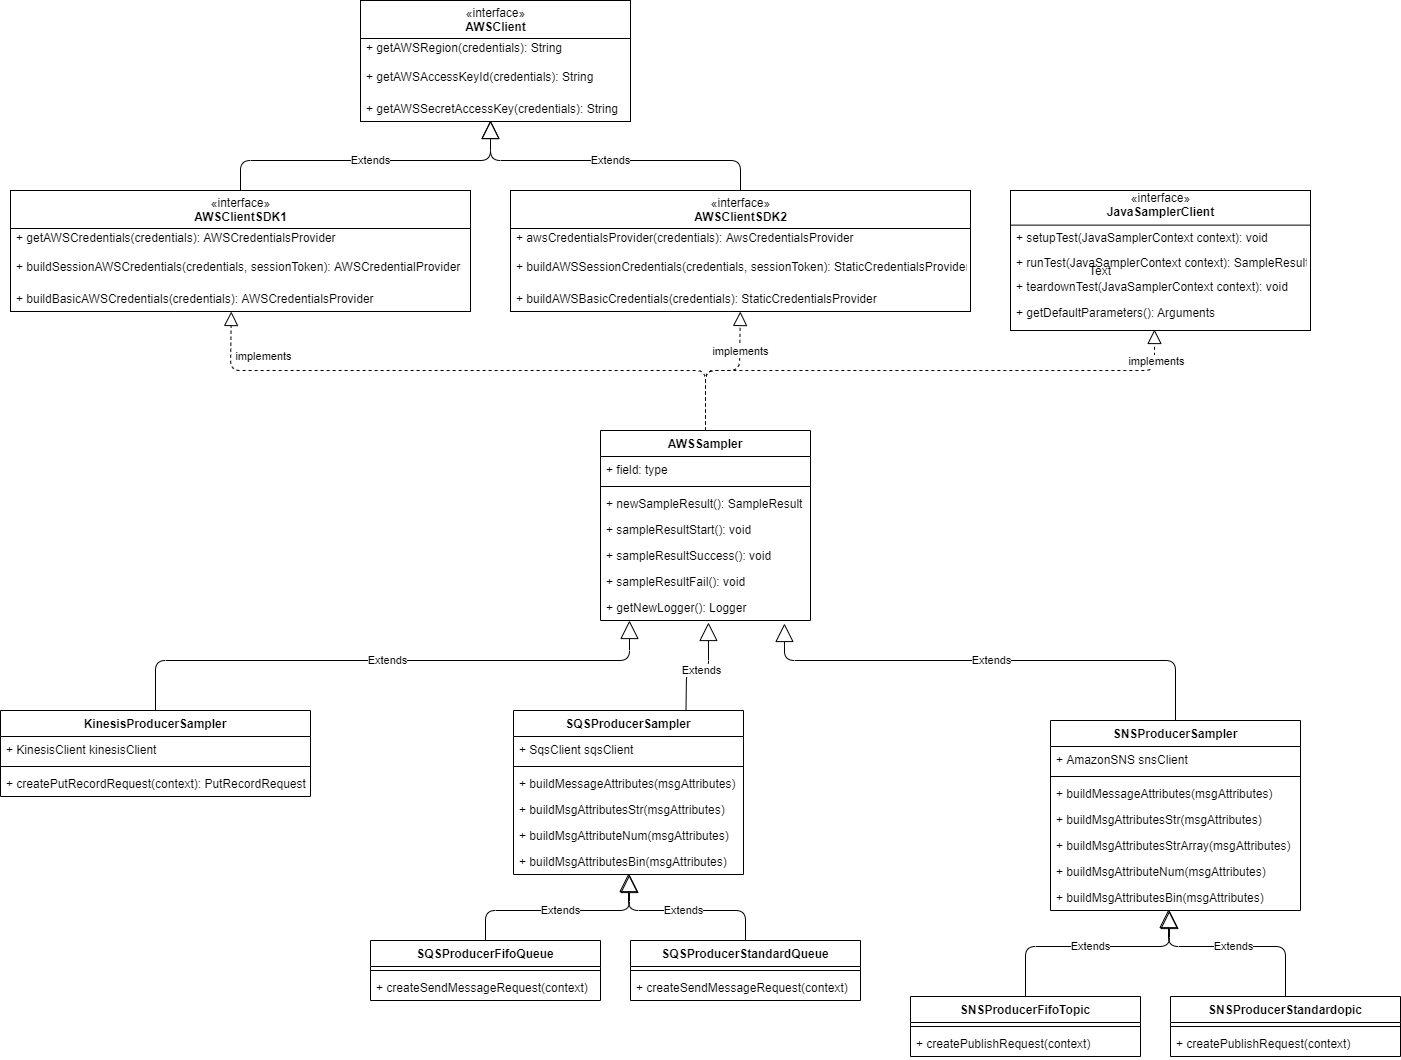
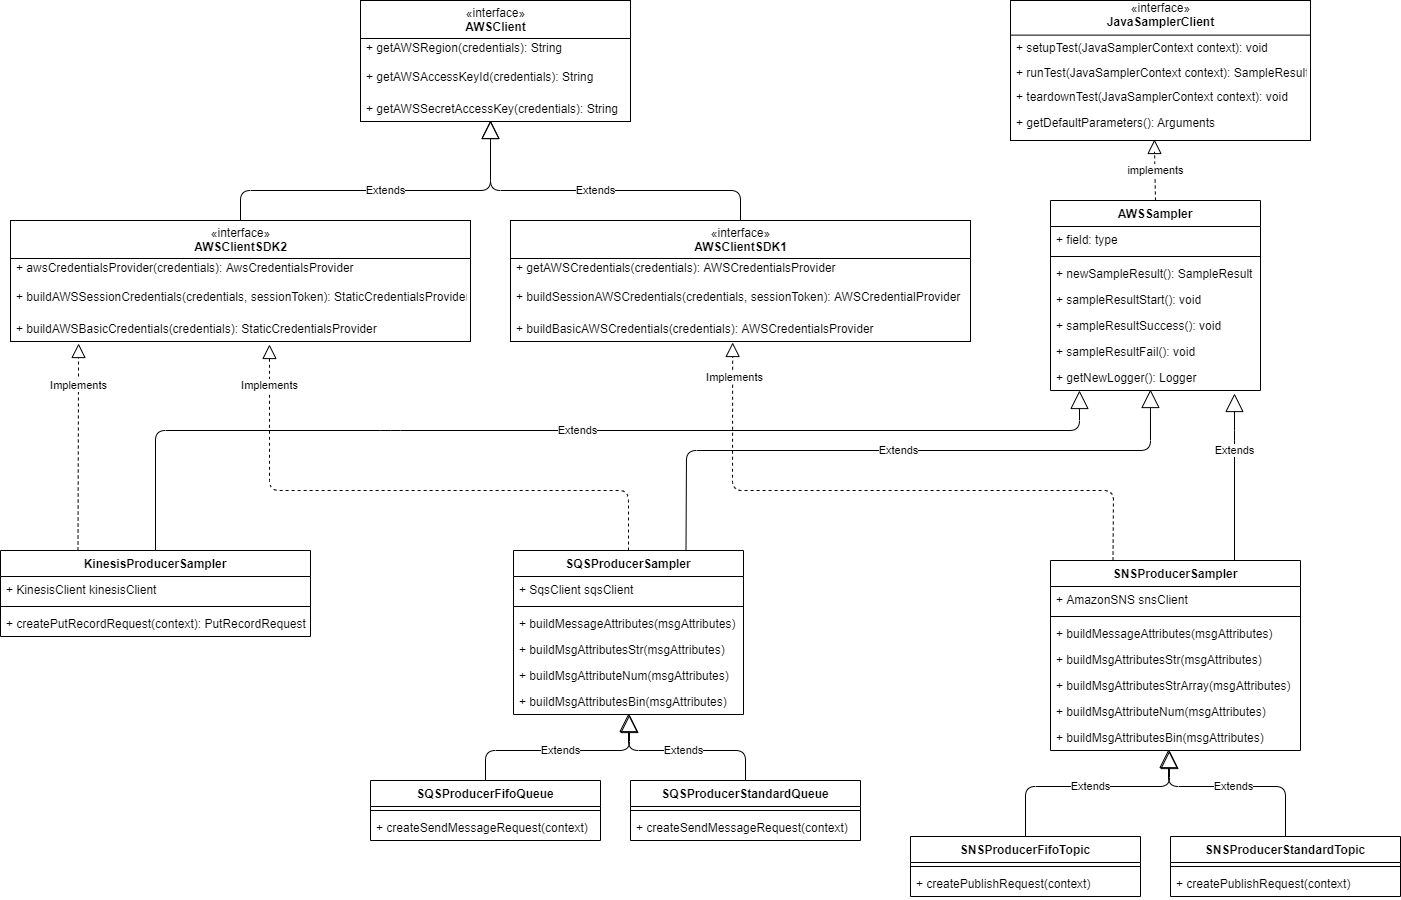
Each AWS Java Request use AWSClientSDK version need.

diff --git a/src/main/java/org/apache/jmeter/protocol/aws/AWSSampler.java b/src/main/java/org/apache/jmeter/protocol/aws/AWSSampler.java
@@ -1,6 +1,5 @@
 package org.apache.jmeter.protocol.aws;
 
-import com.amazonaws.client.builder.AwsSyncClientBuilder;
 import com.fasterxml.jackson.core.JsonProcessingException;
 import com.fasterxml.jackson.core.type.TypeReference;
 import com.fasterxml.jackson.databind.ObjectMapper;
@@ -9,10 +8,8 @@ import org.apache.jmeter.protocol.java.sampler.JavaSamplerClient;
 import org.apache.jmeter.samplers.SampleResult;
 import org.slf4j.Logger;
 import org.slf4j.LoggerFactory;
-import software.amazon.awssdk.core.SdkClient;
 
 import java.util.List;
-import java.util.Map;
 import java.util.Optional;
 import java.util.function.Predicate;
 import java.util.stream.Collectors;
@@ -24,7 +21,7 @@ import java.util.stream.Stream;
  * @since 01/27/2021
  * @see "https://github.com/JoseLuisSR/awsmeter"
  */
-public abstract class AWSSampler implements JavaSamplerClient, AWSClientSDK2, AWSClientSDK1 {
+public abstract class AWSSampler implements JavaSamplerClient{
 
     /**
      * Log attribute.
@@ -116,16 +113,6 @@ public abstract class AWSSampler implements JavaSamplerClient, AWSClientSDK2, AW
             new Argument(AWS_REGION, EMPTY),
             new Argument(AWS_CONFIG_PROFILE, AWS_DEFAULT_PROFILE))
             .collect(Collectors.toList());
-
-    @Override
-    public SdkClient createSdkClient(Map<String, String> credentials) {
-        return null;
-    }
-
-    @Override
-    public AwsSyncClientBuilder createAWSClient(Map<String, String> credentials) {
-        return null;
-    }
 
     /**
      * Create new SampleResult.

diff --git a/src/main/java/org/apache/jmeter/protocol/aws/sns/SNSProducerSampler.java b/src/main/java/org/apache/jmeter/protocol/aws/sns/SNSProducerSampler.java
@@ -7,6 +7,7 @@ import com.amazonaws.services.sns.AmazonSNSClient;
 import com.amazonaws.services.sns.model.MessageAttributeValue;
 import com.amazonaws.services.sns.model.PublishRequest;
 import com.fasterxml.jackson.core.JsonProcessingException;
+import org.apache.jmeter.protocol.aws.AWSClientSDK1;
 import org.apache.jmeter.protocol.aws.AWSSampler;
 import org.apache.jmeter.protocol.aws.MessageAttribute;
 import org.apache.jmeter.protocol.java.sampler.JavaSamplerContext;
@@ -27,7 +28,7 @@ import java.util.stream.Stream;
  * @since 01/27/2021
  * @see "https://github.com/JoseLuisSR/awsmeter"
  */
-public abstract class SNSProducerSampler extends AWSSampler {
+public abstract class SNSProducerSampler extends AWSSampler implements AWSClientSDK1 {
 
     /**
      * SNS Topic ARN (Amazon Resource Name).
@@ -68,7 +69,7 @@ public abstract class SNSProducerSampler extends AWSSampler {
     @Override
     public AwsSyncClientBuilder createAWSClient(Map<String, String> credentials) {
         return AmazonSNSClient.builder()
-                .withCredentials(getAWSCredentials(credentials))
+                .withCredentials(getAWSCredentialsProvider(credentials))
                 .withRegion(Regions.fromName(getAWSRegion(credentials)));
     }
 

diff --git a/src/main/java/org/apache/jmeter/protocol/aws/sqs/SQSProducerSampler.java b/src/main/java/org/apache/jmeter/protocol/aws/sqs/SQSProducerSampler.java
@@ -1,6 +1,7 @@
 package org.apache.jmeter.protocol.aws.sqs;
 
 import com.fasterxml.jackson.core.JsonProcessingException;
+import org.apache.jmeter.protocol.aws.AWSClientSDK2;
 import org.apache.jmeter.protocol.aws.AWSSampler;
 import org.apache.jmeter.protocol.aws.MessageAttribute;
 import org.apache.jmeter.protocol.java.sampler.JavaSamplerContext;
@@ -25,7 +26,7 @@ import java.util.stream.Stream;
  * @since 01/27/2021
  * @see "https://github.com/JoseLuisSR/awsmeter"
  */
-public abstract class SQSProducerSampler extends AWSSampler {
+public abstract class SQSProducerSampler extends AWSSampler implements AWSClientSDK2 {
 
     /**
      * SQS Queue Name.
@@ -77,7 +78,7 @@ public abstract class SQSProducerSampler extends AWSSampler {
     public SdkClient createSdkClient(Map<String, String> credentials) {
         return SqsClient.builder()
                 .region(Region.of(getAWSRegion(credentials)))
-                .credentialsProvider(awsCredentialProvider(credentials))
+                .credentialsProvider(getAwsCredentialsProvider(credentials))
                 .build();
     }
 

diff --git a/src/main/java/org/apache/jmeter/protocol/aws/kinesis/KinesisProducerSampler.java b/src/main/java/org/apache/jmeter/protocol/aws/kinesis/KinesisProducerSampler.java
@@ -1,6 +1,7 @@
 package org.apache.jmeter.protocol.aws.kinesis;
 
 import org.apache.jmeter.config.Argument;
+import org.apache.jmeter.protocol.aws.AWSClientSDK2;
 import org.apache.jmeter.protocol.aws.AWSSampler;
 import org.apache.jmeter.protocol.java.sampler.JavaSamplerContext;
 import org.apache.jmeter.config.Arguments;
@@ -25,7 +26,7 @@ import java.util.stream.Stream;
  * @since 01/27/2021
  * @see "https://github.com/JoseLuisSR/awsmeter"
  */
-public class KinesisProducerSampler extends AWSSampler {
+public class KinesisProducerSampler extends AWSSampler implements AWSClientSDK2 {
 
     /**
      * Kinesis Stream name.
@@ -66,7 +67,7 @@ public class KinesisProducerSampler extends AWSSampler {
     public SdkClient createSdkClient(Map<String, String> credentials) {
         return KinesisClient.builder()
                 .region(Region.of(getAWSRegion(credentials)))
-                .credentialsProvider(awsCredentialProvider(credentials))
+                .credentialsProvider(getAwsCredentialsProvider(credentials))
                 .build();
     }
 

diff --git a/src/main/java/org/apache/jmeter/protocol/aws/AWSClientSDK2.java b/src/main/java/org/apache/jmeter/protocol/aws/AWSClientSDK2.java
@@ -32,7 +32,7 @@ public interface AWSClientSDK2 extends AWSClient{
      *        Represents the input of JMeter Java Request parameters.
      * @return AWSCredentialsProvider result of create Basic Session Credentials or Basic Credentials.
      */
-    default AwsCredentialsProvider awsCredentialProvider(Map<String, String> credentials){
+    default AwsCredentialsProvider getAwsCredentialsProvider(Map<String, String> credentials){
         return Optional.ofNullable(credentials.get(AWSSampler.AWS_SESSION_TOKEN))
                 .filter(Predicate.not(String::isEmpty))
                 .map( sessionToken -> buildAWSSessionCredentials(credentials, sessionToken))

diff --git a/src/main/java/org/apache/jmeter/protocol/aws/AWSClientSDK1.java b/src/main/java/org/apache/jmeter/protocol/aws/AWSClientSDK1.java
@@ -33,7 +33,7 @@ public interface AWSClientSDK1 extends AWSClient{
      *        Represents the input of JMeter Java Request parameters.
      * @return AWSCredentialsProvider result of create Basic Session Credentials or Basic Credentials.
      */
-    default AWSCredentialsProvider getAWSCredentials(Map<String, String> credentials){
+    default AWSCredentialsProvider getAWSCredentialsProvider(Map<String, String> credentials){
         return Optional.ofNullable(credentials.get(AWSSampler.AWS_SESSION_TOKEN))
                 .filter(Predicate.not(String::isEmpty))
                 .map( sessionToken -> buildSessionAWSCredentials(credentials, sessionToken))

diff --git a/README.md b/README.md
@@ -65,11 +65,11 @@ Before use `awsmeter` for the first time, complete the following task:
 
 * **IAM user**: You need create new AWS IAM user with programmatic access to connect AWS service end-point 
   using an access key ID and secret access key. Good practice is create new user instead use user root 
-  because you can grant least privilege over the services for the new user. [Steps to create IAM User](https://docs.aws.amazon.com/IAM/latest/UserGuide/id_users_create.html).
+  because you can grant the least privilege over the services for the new user. [Steps to create IAM User](https://docs.aws.amazon.com/IAM/latest/UserGuide/id_users_create.html).
   
 
 * **IAM Group**: You need create an IAM Group to attach policies to multiple IAM Users. Groups let you specify 
-  permissions over the AWS services you need to access, remember grant least privilege.
+  permissions over the AWS services you need to access, remember grant the least privilege.
   
 
 * **IAM Policy**: Policy define the permissions for an action over AWS service that IAM Identity (User, 
@@ -134,15 +134,16 @@ To know the parameters needed by AWS Service please go to:
 
 # Design
 
-`awsmeter` was designed to extend his behaviour to other AWS services, if you want to use JMeter and Java Sampler Request to do test over others AWS Services you just need to extend the class `AWSSampler.java` and overwrite the methods to create SdkClient, define parameters, run and tear down the test.
+`awsmeter` was designed to extend his behaviour to other AWS services, if you want to use JMeter and Java Sampler Request to do test over others AWS Services you just need to extend the class `AWSSampler.java` and implements `AWSClientSDK1.java` or `AWSClientSDK2.java` depend on AWS SDK version you need use, overwrite the methods to create SdkClient, define parameters, run and tear down the test.
 
 ![Screenshot](https://raw.githubusercontent.com/JoseLuisSR/awsmeter/main/doc/img/awsmeter-class-diagram.png)
 
-Below you can see the class diagram with the details of the classes created for Kinesis Data Stream `KinesisProducerSampler.java` and SQS per queue type Standard `SQSProducerStandardQueue` and FIFO `SQSProducerFifoQueue`. Each class has his own logic to connect, produce events or messages and reuse the behaviour to record the test in JMeter and define the parameter to connect AWS account.
+Below you can see the class diagram with the details of the classes created for Kinesis Data Stream `KinesisProducerSampler.java`, SQS per queue type Standard `SQSProducerStandardQueue` and FIFO `SQSProducerFifoQueue`, and SNS per Topic type Standard `SNSProducerStandardTopic` and FIFO `SNSProducerFifoTopic`. Each class has his own logic to connect, produce events or messages and reuse the behaviour to record the test in JMeter and define the parameter to connect AWS account.
 
 `awsmeter` is implementing JavaSamplerClient interface to write our own implementation by AWS Service and can use JMeter to harness multiple threads, input parameter control, and data collection. Each Java Sampler defined is a protocol then we are following the JMeter package convention to define protocol per aws service:
 
 * **org.apache.jmeter.protocol.aws.kinesis**
+* **org.apache.jmeter.protocol.aws.sqs**
 * **org.apache.jmeter.protocol.aws.sns**
 
 Please use this convention to create new Java Sampler Request for other AWS Service.
